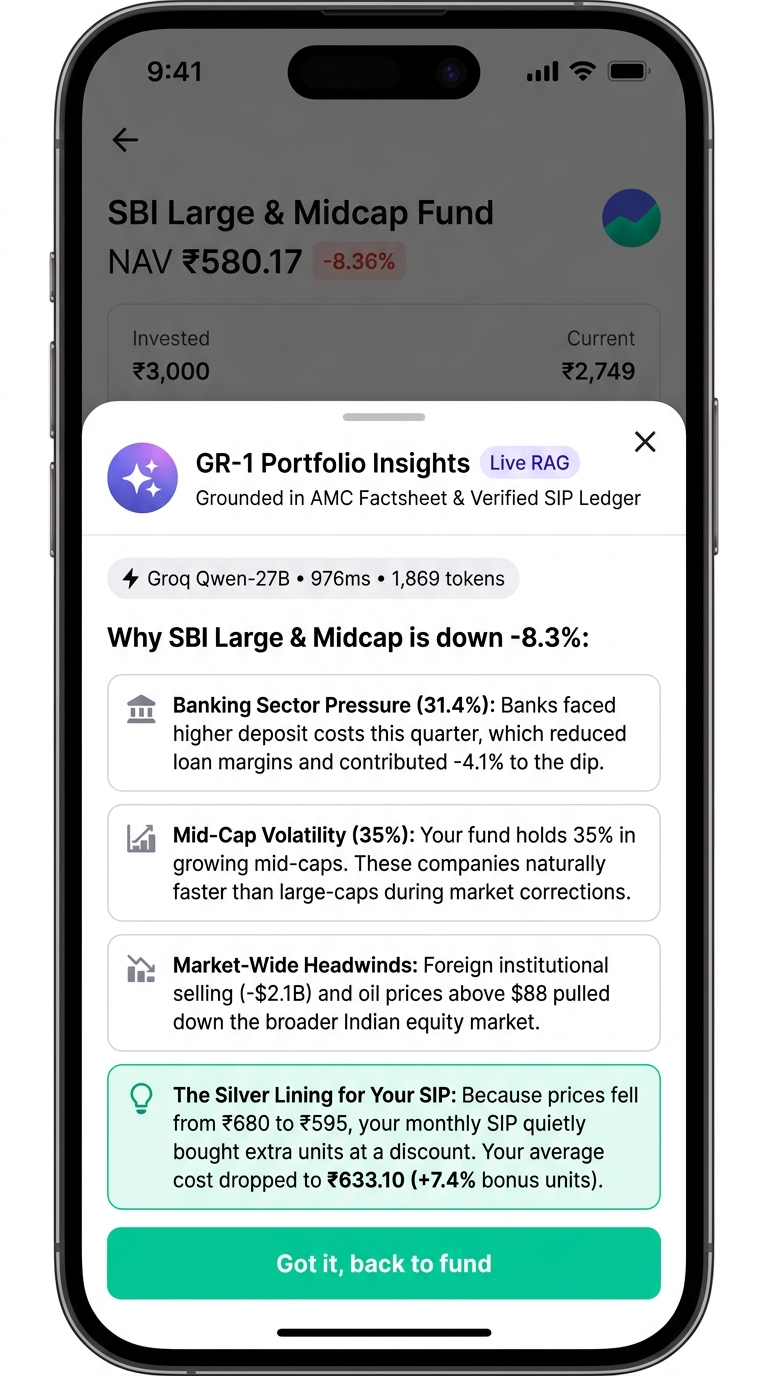
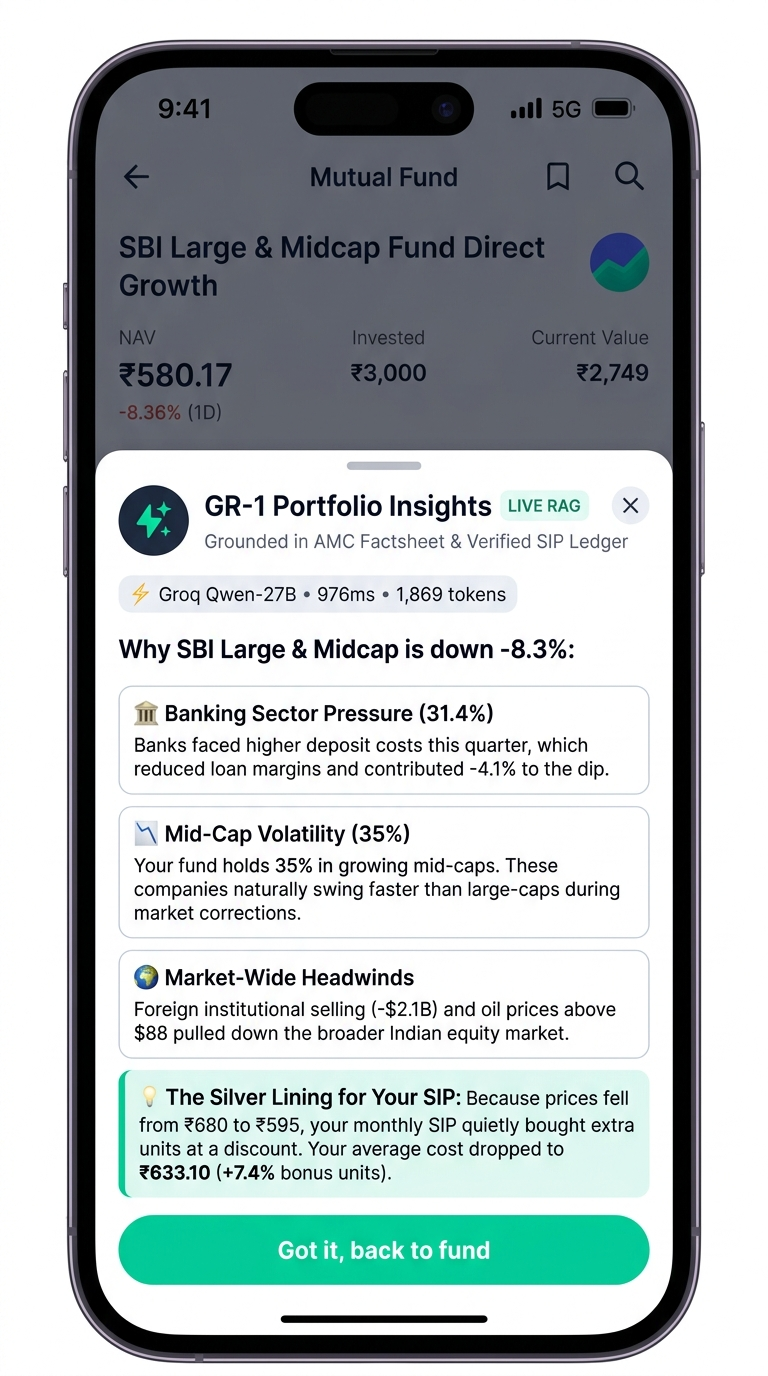
style: align AI theme with authentic Groww green and deep charcoal palette (eliminate purple)

diff --git a/css/groww.css b/css/groww.css
@@ -3199,20 +3199,20 @@ body.dark-mode .prev-event-bar-track {
    GROWW AI PORTFOLIO EXPLAINER - SAMPLE MATCHING COMPONENT
    ======================================================== */
 .groww-ai-sample-card {
-  background: #FAF8FE;
-  border: 1.5px solid #EBE4FA;
+  background: #F8FAFC;
+  border: 1.5px solid #E2E8F0;
   border-radius: var(--radius-lg);
   padding: 16px 16px;
   margin-top: 14px;
   display: flex;
   flex-direction: column;
   gap: 12px;
-  box-shadow: 0 2px 8px rgba(124, 58, 237, 0.04);
+  box-shadow: 0 2px 8px rgba(0, 0, 0, 0.04);
 }
 
 body.dark-mode .groww-ai-sample-card {
-  background: #181524;
-  border-color: #2F2A45;
+  background: #141721;
+  border-color: #262B3D;
 }
 
 .groww-ai-top-row {
@@ -3225,13 +3225,13 @@ body.dark-mode .groww-ai-sample-card {
   width: 40px;
   height: 40px;
   border-radius: 50%;
-  background: linear-gradient(135deg, #7C3AED 0%, #9333EA 100%);
-  color: #FFFFFF;
+  background: #18172E;
+  color: #00D09C;
   display: flex;
   align-items: center;
   justify-content: center;
   flex-shrink: 0;
-  box-shadow: 0 4px 10px rgba(124, 58, 237, 0.25);
+  box-shadow: 0 4px 10px rgba(0, 208, 156, 0.2);
 }
 
 .groww-ai-text-col {
@@ -3254,16 +3254,18 @@ body.dark-mode .groww-ai-sample-card {
 
 .groww-ai-beta-tag {
   font-size: 11px;
-  font-weight: 600;
-  color: #6D28D9;
-  background: #EDE9FE;
+  font-weight: 700;
+  color: #00A877;
+  background: #E8F8F3;
   padding: 2px 8px;
   border-radius: var(--radius-pill);
+  text-transform: uppercase;
+  letter-spacing: 0.3px;
 }
 
 body.dark-mode .groww-ai-beta-tag {
-  background: #2E1065;
-  color: #C4B5FD;
+  background: #064E3B;
+  color: #6EE7B7;
 }
 
 .groww-ai-card-desc {
@@ -3286,10 +3288,14 @@ body.dark-mode .groww-ai-beta-tag {
 .groww-ai-engine-label {
   font-size: 11px;
   font-weight: 700;
-  color: #6D28D9;
+  color: #0F172A;
   text-transform: uppercase;
   letter-spacing: 0.5px;
   flex-shrink: 0;
+}
+
+body.dark-mode .groww-ai-engine-label {
+  color: #E2E8F0;
 }
 
 .groww-ai-engine-pills {
@@ -3303,35 +3309,36 @@ body.dark-mode .groww-ai-beta-tag {
   font-weight: 600;
   padding: 4px 10px;
   border-radius: var(--radius-pill);
-  border: 1px solid #D8D2EB;
+  border: 1px solid #E2E8F0;
   background: #FFFFFF;
-  color: #4B5563;
+  color: #475569;
   cursor: pointer;
   white-space: nowrap;
   transition: all 0.15s ease;
 }
 
 .groww-ai-pill:hover {
-  border-color: #8B5CF6;
-  color: #6D28D9;
+  border-color: #00D09C;
+  color: #00A877;
 }
 
 .groww-ai-pill.active {
-  background: #7C3AED;
-  color: #FFFFFF;
-  border-color: #7C3AED;
-  box-shadow: 0 2px 6px rgba(124, 58, 237, 0.25);
+  background: #18172E;
+  color: #00D09C;
+  border-color: #18172E;
+  box-shadow: 0 2px 6px rgba(0, 0, 0, 0.15);
 }
 
 body.dark-mode .groww-ai-pill {
-  background: #14131E;
-  border-color: #38334E;
-  color: #9CA3AF;
+  background: #141721;
+  border-color: #262B3D;
+  color: #94A3B8;
 }
 
 body.dark-mode .groww-ai-pill.active {
-  background: #8B5CF6;
-  color: #FFFFFF;
+  background: #00D09C;
+  color: #0D0E12;
+  border-color: #00D09C;
 }
 
 @keyframes spin {
@@ -3342,7 +3349,7 @@ body.dark-mode .groww-ai-pill.active {
 /* AI Pill Input Field */
 .groww-ai-input-wrap {
   background: #FFFFFF;
-  border: 1.2px solid #D8D2EB;
+  border: 1.2px solid #E2E8F0;
   border-radius: var(--radius-pill);
   padding: 8px 14px;
   display: flex;
@@ -3353,17 +3360,17 @@ body.dark-mode .groww-ai-pill.active {
 }
 
 .groww-ai-input-wrap:focus-within {
-  border-color: #7C3AED;
-  box-shadow: 0 0 0 3px rgba(124, 58, 237, 0.12);
+  border-color: #00D09C;
+  box-shadow: 0 0 0 3px rgba(0, 208, 156, 0.15);
 }
 
 body.dark-mode .groww-ai-input-wrap {
-  background: #14131E;
-  border-color: #38334E;
+  background: #141721;
+  border-color: #262B3D;
 }
 
 .groww-ai-input-icon {
-  color: #8B5CF6;
+  color: #00D09C;
   display: flex;
   align-items: center;
   flex-shrink: 0;
@@ -3387,7 +3394,7 @@ body.dark-mode .groww-ai-input-wrap {
   background: none;
   border: none;
   cursor: pointer;
-  color: #7C3AED;
+  color: #00D09C;
   display: flex;
   align-items: center;
   justify-content: center;
@@ -3398,7 +3405,7 @@ body.dark-mode .groww-ai-input-wrap {
 
 .groww-ai-send-btn:hover {
   transform: scale(1.1);
-  color: #6D28D9;
+  color: #00A877;
 }
 
 /* Prompt Chips */
@@ -3410,8 +3417,8 @@ body.dark-mode .groww-ai-input-wrap {
 
 .groww-ai-chip {
   background: #FFFFFF;
-  border: 1px solid #DCD5F2;
-  color: #4338CA;
+  border: 1px solid #E2E8F0;
+  color: #334155;
   font-size: 12px;
   font-weight: 500;
   border-radius: var(--radius-pill);
@@ -3425,8 +3432,9 @@ body.dark-mode .groww-ai-input-wrap {
 }
 
 .groww-ai-chip:hover {
-  background: #EDE9FE;
-  border-color: #7C3AED;
+  background: #E8F8F3;
+  border-color: #00D09C;
+  color: #00A877;
   transform: translateY(-1px);
 }
 
@@ -3836,13 +3844,13 @@ body.dark-mode .groww-gr1-sheet-header {
   width: 32px;
   height: 32px;
   border-radius: 50%;
-  background: linear-gradient(135deg, #7C3AED 0%, #9333EA 100%);
-  color: #FFFFFF;
+  background: #18172E;
+  color: #00D09C;
   display: flex;
   align-items: center;
   justify-content: center;
   flex-shrink: 0;
-  box-shadow: 0 2px 8px rgba(124, 58, 237, 0.3);
+  box-shadow: 0 2px 8px rgba(0, 208, 156, 0.25);
 }
 
 .groww-gr1-sheet-title {
@@ -3856,8 +3864,8 @@ body.dark-mode .groww-gr1-sheet-header {
 .groww-gr1-badge {
   font-size: 10px;
   font-weight: 700;
-  background: #EDE9FE;
-  color: #6D28D9;
+  background: #E8F8F3;
+  color: #00A877;
   padding: 2px 6px;
   border-radius: 9999px;
   text-transform: uppercase;
@@ -3865,8 +3873,8 @@ body.dark-mode .groww-gr1-sheet-header {
 }
 
 body.dark-mode .groww-gr1-badge {
-  background: #2E1065;
-  color: #DDD6FE;
+  background: #064E3B;
+  color: #6EE7B7;
 }
 
 .groww-gr1-sheet-sub {
